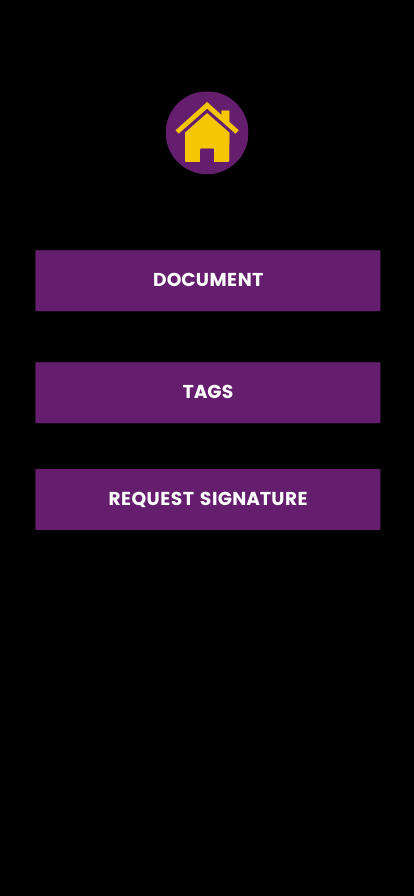
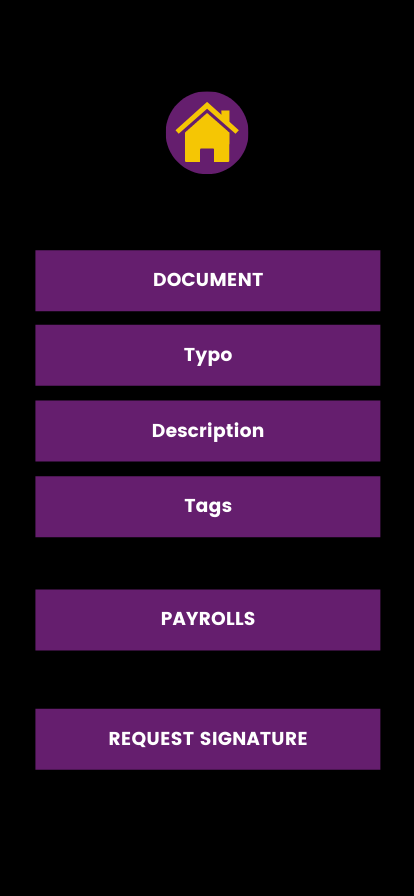
cambie la imagen de fondo

Changed region(s): [[0.087, 0.3438, 0.9275, 0.625], [0.087, 0.7812, 0.9275, 0.875], [0.087, 0.6562, 0.9275, 0.75]]

diff --git a/interfaz/login.py b/interfaz/login.py
@@ -40,11 +40,6 @@ def verify_to_options():
 def request_signature_to_options():
     request_signature.state(newstate = "withdraw")
     options_window()
-    
-def open_file():
-    nombrearch=fd.askopenfilename(initialdir = "/",title = "Seleccione archivo",filetypes = (("pdf files","*.pdf"),("todos los archivos","*.*")))
-    print(nombrearch)
-    return nombrearch
 
 ## FUNCIONES DE VENTANAS
 
@@ -122,6 +117,21 @@ def options_window():
 
 # VENTANA PARA FIRMAR DOCUMENTOS
 def sign_window():
+    
+    def select_file():
+        global nombrearch_to_sign
+        nombrearch_to_sign=fd.askopenfilename(initialdir = "/",title = "Seleccione archivo",filetypes = (("pdf files","*.pdf"),("todos los archivos","*.*")))
+        print(nombrearch_to_sign)
+    
+    def select_privateKey():
+        global privateKey
+        privateKey=fd.askopenfilename(initialdir = "/",title = "Seleccione archivo",filetypes = (("pdf files","*.pdf"),("todos los archivos","*.*")))
+        print(privateKey)
+        
+    def sign_file():
+        print("File Signed " + "privateKey: " + privateKey + " name: " + nombrearch_to_sign)
+        sign_to_options()
+    
     global sign
     sign = Toplevel(options)
     sign.title("Sign")
@@ -134,23 +144,39 @@ def sign_window():
     btn_home = Button(sign, cursor="hand2", bg=yellow_color, width=1, relief="flat", padx=8, pady=1, activebackground=yellow_color, command=sign_to_options)
     btn_home.place(x=191, y=127)
     
-    #Boton de document
+    #Boton de cargar document
     btn_Document = Button(sign, text="Document", cursor="hand2", bg=purple_color, fg=white_color, width=12, relief="flat",
-                      font=("Poppins Light", 14, "bold"), padx=85, pady=10)
+                      font=("Poppins Light", 14, "bold"), padx=85, pady=10, command=select_file)
     btn_Document.place(x=34, y=246)
     #Boton de private key
     btn_PrivateKey = Button(sign, text="Private Key", cursor="hand2", bg=purple_color, fg=white_color, width=12, relief="flat",
-                    font=("Poppins Light", 14, "bold"), padx=85, pady=10)
+                    font=("Poppins Light", 14, "bold"), padx=85, pady=10, command=select_privateKey)
     btn_PrivateKey.place(x=34, y=358)
     #Boton de firmar
     btn_Sign = Button(sign, text="Sign", cursor="hand2", bg=purple_color, fg=white_color, width=12, relief="flat",
-                    font=("Poppins Light", 14, "bold"), padx=85, pady=10)
+                    font=("Poppins Light", 14, "bold"), padx=85, pady=10, command=sign_file)
     btn_Sign.place(x=34, y=469)
     
     sign.mainloop()
 
 # FUNCION PARA VERIFICAR DOCUMENTOS
 def verify_window():
+    
+    def select_file():
+        global nombrearch_to_verify
+        nombrearch_to_verify=fd.askopenfilename(initialdir = "/",title = "Seleccione archivo",filetypes = (("pdf files","*.pdf"),("todos los archivos","*.*")))
+        print(nombrearch_to_verify)
+        
+    def select_publicKey():
+        global publicKey
+        publicKey=fd.askopenfilename(initialdir = "/",title = "Seleccione archivo",filetypes = (("pdf files","*.pdf"),("todos los archivos","*.*")))
+        print(publicKey)
+        
+    def verify_file():
+        print("File Verified " + "publicKey: " + publicKey + " name: " + nombrearch_to_verify)
+        verify_to_options()
+    
+    
     global verify
     verify = Toplevel(options)
     verify.title("Verify")
@@ -165,21 +191,30 @@ def verify_window():
     
     #Boton de document
     btn_Document = Button(verify, text="Document", cursor="hand2", bg=purple_color, fg=white_color, width=12, relief="flat",
-                      font=("Poppins Light", 14, "bold"), padx=85, pady=10)
+                      font=("Poppins Light", 14, "bold"), padx=85, pady=10, command=select_file)
     btn_Document.place(x=34, y=246)
-    #Boton de private key
-    btn_PrivateKey = Button(verify, text="Private Key", cursor="hand2", bg=purple_color, fg=white_color, width=12, relief="flat",
-                    font=("Poppins Light", 14, "bold"), padx=85, pady=10)
+    #Boton de public key
+    btn_PrivateKey = Button(verify, text="Public Key", cursor="hand2", bg=purple_color, fg=white_color, width=12, relief="flat",
+                    font=("Poppins Light", 14, "bold"), padx=85, pady=10, command=select_publicKey)
     btn_PrivateKey.place(x=34, y=358)
     #Boton de Verificar
     btn_Verify = Button(verify, text="Verify", cursor="hand2", bg=purple_color, fg=white_color, width=12, relief="flat",
-                    font=("Poppins Light", 14, "bold"), padx=85, pady=10)
+                    font=("Poppins Light", 14, "bold"), padx=85, pady=10, command=verify_file)
     btn_Verify.place(x=34, y=469)
     
     verify.mainloop()
 
 # FUNCION PARA SOLICITAR FIRMAR
 def request_signature_window():
+    def select_file():
+        global nombrearch
+        nombrearch=fd.askopenfilename(initialdir = "/",title = "Seleccione archivo",filetypes = (("pdf files","*.pdf"),("todos los archivos","*.*")))
+        print(nombrearch)
+    
+    def nominas(tagNominas, typoDocument, description, tagsDocuments):
+        print("Las nominas son: " + tagNominas.get() + ", el typo es: " + typoDocument.get() + ", su descripcion es: " + description.get() + " y sus tags son: " + tagsDocuments.get() + " y la direccion del archivo es: " + nombrearch)
+        request_signature_to_options()
+    
     global request_signature
     request_signature = Toplevel(options)
     request_signature.title("Request Signature")
@@ -188,40 +223,48 @@ def request_signature_window():
     fondo = PhotoImage(file="request.png")
     fondo1 = Label(request_signature, image=fondo).place(x=0, y=0, relwidth=1, relheight=1)
     
-    #Variables
+    #VARIABLES
     tagNominas = StringVar()
+    typoDocument = StringVar()
+    description = StringVar()
+    tagsDocument = StringVar()
+    nominas = partial(nominas, tagNominas, typoDocument, description, tagsDocument)
     
+    # ENTRADAS
+    #Entrada para tomar el typo de documento
+    entrada_typo = Entry(request_signature, font=("Poppins", 12, "italic"), textvariable=typoDocument, width=28, relief="flat", bg=purple_color, bd=20, fg=white_color, insertbackground=white_color)
+    entrada_typo.place(x=34,y=320)
+    entrada_typo.insert(0, "write typo...")
+    
+    #Entrada para tomar la descripcion del documento
+    entrada_description = Entry(request_signature, font=("Poppins", 12, "italic"), textvariable=description, width=28, relief="flat", bg=purple_color, bd=20, fg=white_color, insertbackground=white_color)
+    entrada_description.place(x=34,y=395)
+    entrada_description.insert(0, "write description...")
+    
+    #Entrada para tomar los tags del documento
+    entrada_tagsDocument = Entry(request_signature, font=("Poppins", 12, "italic"), textvariable=tagsDocument, width=28, relief="flat", bg=purple_color, bd=20, fg=white_color, insertbackground=white_color)
+    entrada_tagsDocument.place(x=34,y=475)
+    entrada_tagsDocument.insert(0, "write document's tags...")
+    
+    #Entrada para toma de nominas que deben firmar
+    entrada_tags = Entry(request_signature, font=("Poppins", 12, "italic"), textvariable=tagNominas, width=28, relief="flat", bg=purple_color, bd=20, fg=white_color, insertbackground=white_color)
+    entrada_tags.place(x=34,y=590)
+    entrada_tags.insert(0, "write payrolls here...")
+
+    #BOTONES
     #Boton de Home
     btn_home = Button(request_signature, cursor="hand2", bg=yellow_color, width=1, relief="flat", padx=8, pady=1, activebackground=yellow_color, command=request_signature_to_options)
     btn_home.place(x=191, y=127)
     
-    #Boton de document
+    #Boton de cargar documento
     btn_Document = Button(request_signature, text="Document", cursor="hand2", bg=purple_color, fg=white_color, width=12, relief="flat",
-                      font=("Poppins Light", 14, "bold"), padx=85, pady=10, command=open_file)
+                      font=("Poppins Light", 14, "bold"), padx=85, pady=10, command=select_file)
     btn_Document.place(x=34, y=246)
-    #Boton de private key
-    '''btn_Tags = Button(request_signature, text="Tags", cursor="hand2", bg=purple_color, fg=white_color, width=12, relief="flat",
-                    font=("Poppins Light", 14, "bold"), padx=85, pady=10)
-    btn_Tags.place(x=34, y=358)'''
-    #Boton para entrada de nominas que deben firmar
-    entrada_tags = Entry(request_signature, font=("Poppins", 12, "italic"), textvariable=tagNominas, width=28, relief="flat", bg=purple_color, bd=20, fg=white_color, insertbackground=white_color)
-    entrada_tags.place(x=34,y=358)
-    entrada_tags.insert(0, "write payrolls here...")
-    entrada_tags.focus_set()
     
-    def placeholder(event):
-        entrada_tags.configure(state = NORMAL)
-        entrada_tags.configure(font=("Poppins", 12, "bold"))
-        entrada_tags.delete(0, END)
-
-        entrada_tags.unbind('<Button-1>', click)
-
-    click = entrada_tags.bind('<Button-1>', placeholder)
-    
-    #Boton de Verificar
+    #Boton de Solicitar
     btn_Request_Signature = Button(request_signature, text="Request Signature", cursor="hand2", bg=purple_color, fg=white_color, width=12, relief="flat",
-                    font=("Poppins Light", 14, "bold"), padx=85, pady=10)
-    btn_Request_Signature.place(x=34, y=469)
+                    font=("Poppins Light", 14, "bold"), padx=85, pady=10, command=nominas)
+    btn_Request_Signature.place(x=34, y=703)
     
     request_signature.mainloop()
     
